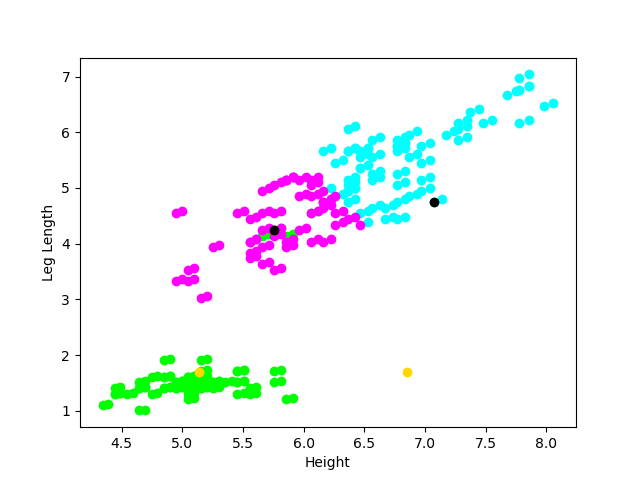
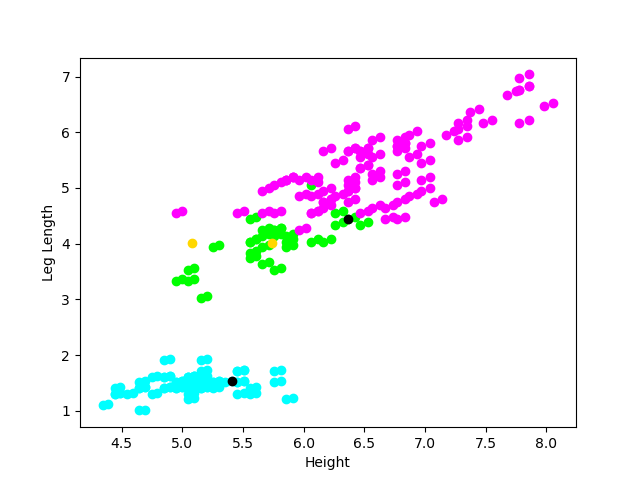
.

diff --git a/Task 2/Task 2.py b/Task 2/Task 2.py
@@ -22,16 +22,24 @@ def compute_euclidean_distance(vec_1, vec_2):
     return distance
 
 def kmeans(dataset, k):
+    ds = []
+    vs = []
+    dis = np.array(ds)
+    vis = np.array(vs)
     dm = dataset.to_numpy()
     #stores assigned cluster and distance
     ca = np.zeros((len(dm), 2))
     centroids = initialise_centroids(dataset, k)
     #measures the distance of each point in each row in the dataset
     for vi, v in enumerate(dm):
-        centdis = np.zeros(len(centroids))
+        centdis = np.zeros(len(centroids))  
         for i, centroid in enumerate(centroids):
             d = compute_euclidean_distance(v, centroid)
-            centdis[i] = d 
+            centdis[i] = d
+            print(d)
+            print(i)
+            dis = np.append(dis, d) 
+            vis = np.append(vis, i)
         md = np.min(centdis)
         ac = np.argmin(centdis)
         ca[vi] = np.array([md, ac])
@@ -49,10 +57,19 @@ def kmeans(dataset, k):
         for x, val in enumerate(centroid):            
             cc = cgnp[:, x]
             mean = np.mean(cc)
-            nc[i, x] = mean   
+            nc[i, x] = mean
+    findf = pd.DataFrame(columns=['iteration_step','objective_function_value'])
+    findf['iteration_step'] = dis.tolist()
+    findf['objective_function_value'] = dis.tolist()
+    findf.sort_values('iteration_step', ascending=True,)
+    plt.plot(findf['iteration_step'], findf['objective_function_value'], color='black')
+    plt.xlabel('iteration_step')
+    plt.ylabel('objective_function_value')
+    plt.savefig('objective_function_value.png')
+    plt.show()
+    
     return centroids, nc, cadf
 centroids, mean_cent, clusassdf = kmeans(data, k=3)
-
 km1 = clusassdf[clusassdf['ac'] == 0]
 km2 = clusassdf[clusassdf['ac'] == 1]
 km3 = clusassdf[clusassdf['ac'] == 2]
@@ -82,3 +99,4 @@ plt.xlabel('Height')
 plt.ylabel('Leg Length')
 plt.savefig('leg_length.png')
 plt.show()
+

diff --git a/Task 1/Task 3.py b/Task 1/Task 3.py
@@ -19,8 +19,6 @@ print(df)
 
 def display_boxplot(data, column):
     data.boxplot(by='Participant Condition', column=column)
-    test = f"""boxplot_{column}.png"""
-    plt.savefig(test)
     plt.show()
 
 def statistical_summary(data):
@@ -129,11 +127,11 @@ def ann(train, test, epochs):
 
 
 k = 10
-display_boxplot(df, 'Alpha')
-display_boxplot(df, 'Beta')
+#display_boxplot(df, 'Alpha')
+#display_boxplot(df, 'Beta')
 mindf, maxdf, meandf = statistical_summary(df)
 traindata, testdata = split_data(df)
 #ann(traingdata, testdata, 64)
 #ann(traingdata, testdata, 128)
 #ann(traingdata, testdata, 256)
-#acc_scores = ann10Fold(df, 500, 10, 30)
+acc_scores = ann10Fold(df, 500, 10, 30)
